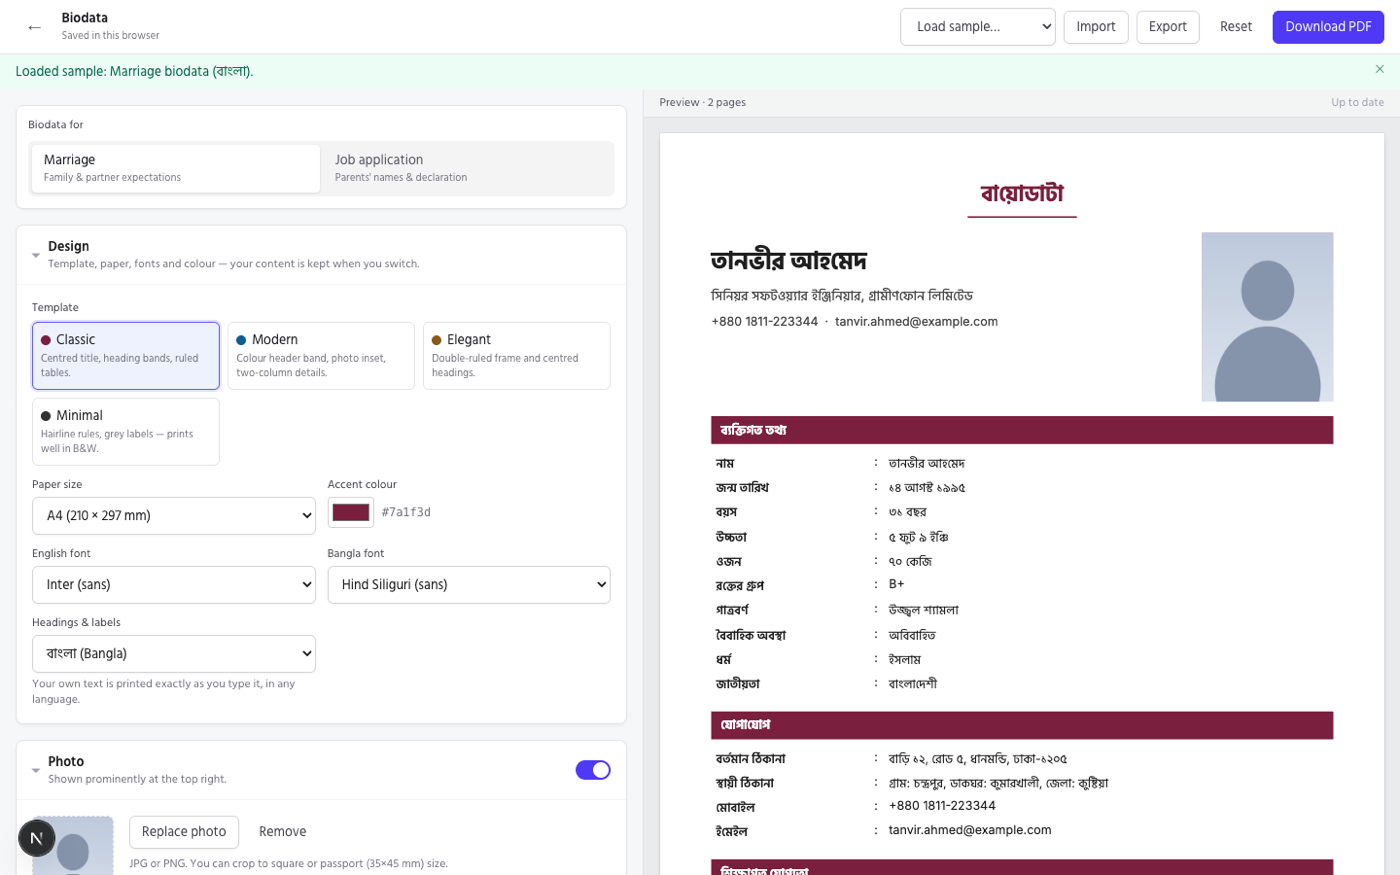
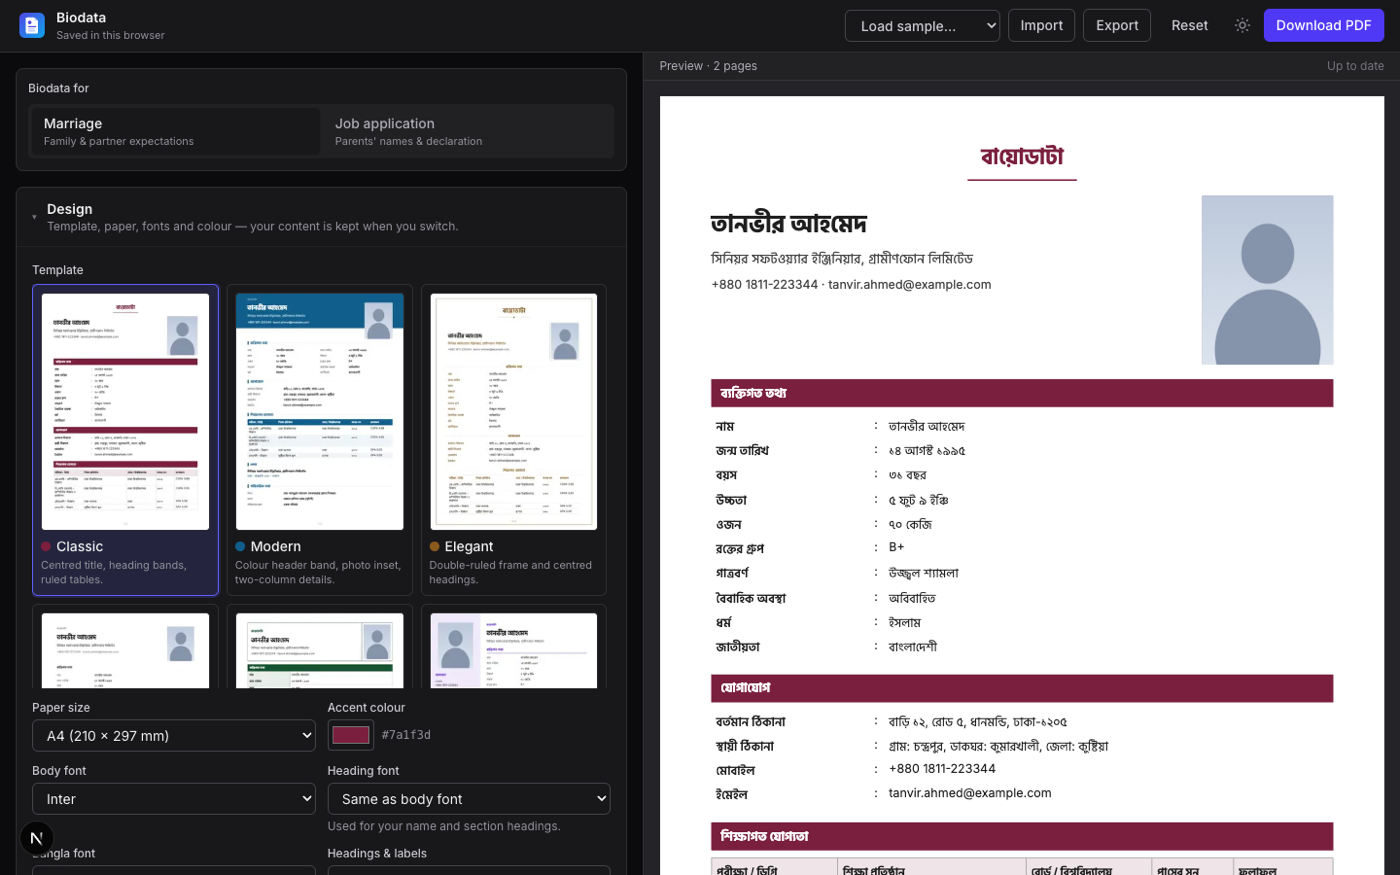
Update README, font licences and screenshots
Document the 24 templates, font categories and heading font, Bangla
font test results, dark theme, thumbnail script, new page-break rules
for template authors, template credits and Vercel deployment.

diff --git a/README.md b/README.md
@@ -2,6 +2,8 @@
 
 Build a **Professional CV**, a South Asian **Biodata** (marriage or job) or an **Academic CV** in the browser: fill in a form, watch the PDF update live, and download it. Text in the PDF is real, selectable text (ATS-readable), and Bangla (বাংলা) renders correctly.
 
+![Home page (dark theme)](docs/screenshots/home-dark.png)
+
 ![Professional CV editor](docs/screenshots/professional-editor.png)
 
 | Biodata in Bangla | Academic CV |
@@ -10,11 +12,16 @@ Build a **Professional CV**, a South Asian **Biodata** (marriage or job) or an *
 
 ## Features
 
-- **Three document types**, each with its own form and sample data: Professional CV (7 templates), Biodata (4 templates, marriage/job mode, English or Bangla headings) and Academic CV (4 templates, APA 7 or IEEE citations, your name bolded automatically in author lists).
+- **Three document types and 24 templates**, each type with its own form and sample data:
+  - **Professional CV (10 templates):** 8 of them ATS-friendly.
+  - **Biodata (7 templates):** marriage/job mode, English or Bangla headings.
+  - **Academic CV (7 templates):** APA 7 or IEEE citations, with your name bolded automatically in author lists.
 - **Live preview.** The PDF is re-rendered about 0.4 s after you stop typing and shown with pdf.js (it works on phones too). On mobile, Form and Preview are tabs.
 - **Repeatable sections.** Add, remove and reorder entries by dragging or with the ↑/↓ buttons.
 - **Section switches.** Any section can be hidden, and empty sections are never printed.
-- **Switch template, font, paper size (A4 / US Letter) or accent colour** without re-entering anything.
+- **Switch template, fonts, paper size (A4 / US Letter) or accent colour** without re-entering anything. Template thumbnails appear on the home page and in the editor.
+- **24 fonts in four categories** (sans-serif, serif, slab, monospace), including metric-compatible stand-ins for Calibri (Carlito) and Times New Roman (Tinos). You can use a **separate heading font**, e.g. Playfair Display headings with a Lato body, and pick one of **3 Bangla fonts**.
+- **Dark theme by default**, with a light theme one click away. The choice is remembered.
 - **Photo upload with cropping** to square or passport (35×45 mm) size.
 - **Validation** with clear messages, e.g. a required name or an invalid email. Download is blocked until the fields shown in red are fixed. Errors in hidden sections are ignored.
 - **Nothing leaves your browser.** Autosave goes to `localStorage`, and there is **Export/Import as JSON**.
@@ -36,6 +43,7 @@ npm run dev          # http://localhost:3000
 | `npm run typecheck` | `tsc --noEmit` |
 | `npm run lint` | ESLint |
 | `npm run render-samples [type]` | Renders every template with its sample data to `sample-output/*.pdf` (a quick visual check, no browser needed) |
+| `npm run thumbnails` | Re-renders the samples and regenerates `public/templates/*.jpg` thumbnails (macOS only; uses PDFKit via Swift) |
 
 `predev` / `prebuild` copy the pdf.js worker into `public/pdf.worker.min.mjs`. That file is generated, so it isn't committed.
 
@@ -90,20 +98,27 @@ public/fonts/               TTF fonts (OFL, see LICENSE.md)
    Biodata templates build a `BioKit` and call `renderBiodataSections`. Academic templates call `renderAcademicSections`.
 2. **Register it** in [templates/registry.ts](templates/registry.ts) (`COMPONENTS[type][id]`).
 3. **Describe it** in [templates/catalog.ts](templates/catalog.ts) with an id, name, description, `atsFriendly`, a default `accent` and optionally `inspiredBy`. It then appears in the template picker.
-4. Run `npm run render-samples <type>` and check `sample-output/<type>-<id>.pdf`.
+4. Run `npm run render-samples <type>` and check `sample-output/<type>-<id>.pdf`. Then run `npm run thumbnails` to create its picture for the home page and the template picker.
 
 Rules that keep page breaks clean (see the comments in [templates/shared/kit.tsx](templates/shared/kit.tsx)):
 - Render sections as **fragments, not wrapping `<View>`s**. react-pdf mis-paginates when an unbreakable block is the first child of a nested breakable view: it keeps the block on the page and squashes the text.
 - Use `<Section>` and `<Entry>`. They keep each heading together with its first entry, and each entry head together with its first bullet.
 - Don't use `letterSpacing` on Bangla text; it detaches vowel signs. The biodata templates use `tracking()` for this.
+- Avoid double spaces and run boundaries without a space. react-pdf prints a "-" if it breaks a line there. User text is cleaned automatically (`collapseSpaces`), and citation runs are normalised (`normalizeSegments`).
+- Use `headingFont(doc.settings)` for the name and section headings, so the heading-font setting applies.
 
 ## Bangla support: a note on fonts
 
-The spec asked for **Noto Sans Bengali**, but react-pdf's shaping engine (fontkit) renders many of its conjuncts wrongly (জন্ম, স্ত্রী, বিশ্ববিদ্যালয়, reph forms). This happens with both the Google Fonts and the upstream notofonts builds. The app therefore uses fonts that shape correctly under react-pdf:
+The spec asked for **Noto Sans Bengali**, but react-pdf's shaping engine (fontkit) renders many of its conjuncts wrongly (জন্ম, স্ত্রী, বিশ্ববিদ্যালয়, reph forms). This happens with both the Google Fonts and the upstream notofonts builds. The app therefore offers only Bangla fonts that were checked to shape correctly under react-pdf:
 - **Hind Siliguri** (sans), the default
+- **Mina** (sans)
 - **Noto Serif Bengali** (serif)
 
-Every template uses the font stack `[English font, Bangla font]`, so mixed Bangla and English text in any field renders with the right glyphs. Tiro Bangla was also tested but excluded, because it crashes the renderer.
+Every template uses the font stack `[English font, Bangla font]`, so mixed Bangla and English text in any field renders with the right glyphs.
+
+These fonts were tested and excluded:
+- **Tiro Bangla** and **Baloo Da 2** crash the renderer.
+- **Anek Bangla** drops the u-kar (ু).
 
 ## Template credits
 
@@ -114,9 +129,23 @@ The layouts are original react-pdf implementations, modelled on the look of thes
 | Professional — Classic | [Jake's Resume](https://github.com/jakegut/resume) (MIT) |
 | Professional / Academic — Modern | [Awesome-CV](https://github.com/posquit0/Awesome-CV) (LPPL 1.3c) |
 | Professional / Academic — Timeline | [moderncv](https://github.com/moderncv/moderncv) "classic" style (LPPL) |
-| Professional — Compact | [sb2nov/resume](https://github.com/sb2nov/resume) (MIT) |
-| Professional — Sidebar | [AltaCV](https://github.com/liantze/AltaCV) (LPPL) / [Deedy-Resume](https://github.com/deedy/Deedy-Resume) (Apache-2.0) |
+| Professional / Academic — Compact | [sb2nov/resume](https://github.com/sb2nov/resume) (MIT) |
+| Professional / Biodata / Academic — Sidebar | [AltaCV](https://github.com/liantze/AltaCV) (LPPL) |
+| Professional — Two-Column | [Deedy-Resume](https://github.com/deedy/Deedy-Resume) (Apache-2.0) |
+| Professional — Engineering | [RenderCV](https://github.com/rendercv/rendercv) "engineeringresumes" theme (MIT) |
+| Professional / Academic — Banner | [JSON Resume](https://jsonresume.org/themes/) "flat" theme (MIT) |
 | Professional / Academic — Minimal | [JSON Resume](https://jsonresume.org/themes/) minimalist themes (MIT) |
 | Professional — Executive, Academic — Classic | Harvard Office of Career Services résumé / CV guides |
+| Biodata — Bordered | The traditional Bangladeshi office biodata form |
 
 Fonts are licensed under the SIL Open Font License; see [public/fonts/LICENSE.md](public/fonts/LICENSE.md).
+
+## Deploying to Vercel
+
+The app is a static-friendly Next.js site with no backend, database or environment variables, so it deploys to Vercel as is:
+
+1. Push the repository to GitHub (done).
+2. On [vercel.com/new](https://vercel.com/new), import `MehrazRumman/cv-generator`. Keep the detected **Next.js** preset and the default build command (`npm run build`).
+3. Deploy. `prebuild` copies the pdf.js worker automatically. PDFs are generated in the visitor's browser, so there are no serverless functions to size or pay for.
+
+Every later push to `main` redeploys automatically.

diff --git a/public/fonts/LICENSE.md b/public/fonts/LICENSE.md
@@ -1,7 +1,8 @@
 # Font licences
 
-All fonts in this folder are distributed under the **SIL Open Font License 1.1** (https://openfontlicense.org)
-and were downloaded as static TTF instances from Google Fonts:
+All fonts in this folder are open-source fonts downloaded as static TTF instances from Google Fonts. Each is
+distributed under the **SIL Open Font License 1.1** (https://openfontlicense.org) or the **Apache License 2.0**,
+as stated on its Google Fonts page (linked below); both allow bundling and redistribution in this app.
 
 | Files | Family | Source |
 | --- | --- | --- |
@@ -12,5 +13,23 @@ and were downloaded as static TTF instances from Google Fonts:
 | `merriweather-*` | Merriweather | https://fonts.google.com/specimen/Merriweather |
 | `source-serif-*` | Source Serif 4 | https://fonts.google.com/specimen/Source+Serif+4 |
 | `eb-garamond-*` | EB Garamond | https://fonts.google.com/specimen/EB+Garamond |
+| `source-sans-*` | Source Sans 3 | https://fonts.google.com/specimen/Source+Sans+3 |
+| `ibm-plex-sans-*` | IBM Plex Sans | https://fonts.google.com/specimen/IBM+Plex+Sans |
+| `work-sans-*` | Work Sans | https://fonts.google.com/specimen/Work+Sans |
+| `nunito-sans-*` | Nunito Sans | https://fonts.google.com/specimen/Nunito+Sans |
+| `montserrat-*` | Montserrat | https://fonts.google.com/specimen/Montserrat |
+| `poppins-*` | Poppins | https://fonts.google.com/specimen/Poppins |
+| `raleway-*` | Raleway | https://fonts.google.com/specimen/Raleway |
+| `carlito-*` | Carlito | https://fonts.google.com/specimen/Carlito |
+| `lora-*` | Lora | https://fonts.google.com/specimen/Lora |
+| `crimson-pro-*` | Crimson Pro | https://fonts.google.com/specimen/Crimson+Pro |
+| `libre-baskerville-*` | Libre Baskerville | https://fonts.google.com/specimen/Libre+Baskerville |
+| `pt-serif-*` | PT Serif | https://fonts.google.com/specimen/PT+Serif |
+| `playfair-*` | Playfair Display | https://fonts.google.com/specimen/Playfair+Display |
+| `tinos-*` | Tinos | https://fonts.google.com/specimen/Tinos |
+| `roboto-slab-*` | Roboto Slab | https://fonts.google.com/specimen/Roboto+Slab |
+| `ibm-plex-mono-*` | IBM Plex Mono | https://fonts.google.com/specimen/IBM+Plex+Mono |
+| `jetbrains-mono-*` | JetBrains Mono | https://fonts.google.com/specimen/JetBrains+Mono |
 | `hind-siliguri-*` | Hind Siliguri (Bangla) | https://fonts.google.com/specimen/Hind+Siliguri |
+| `mina-*` | Mina (Bangla) | https://fonts.google.com/specimen/Mina |
 | `noto-serif-bengali-*` | Noto Serif Bengali | https://fonts.google.com/specimen/Noto+Serif+Bengali |
